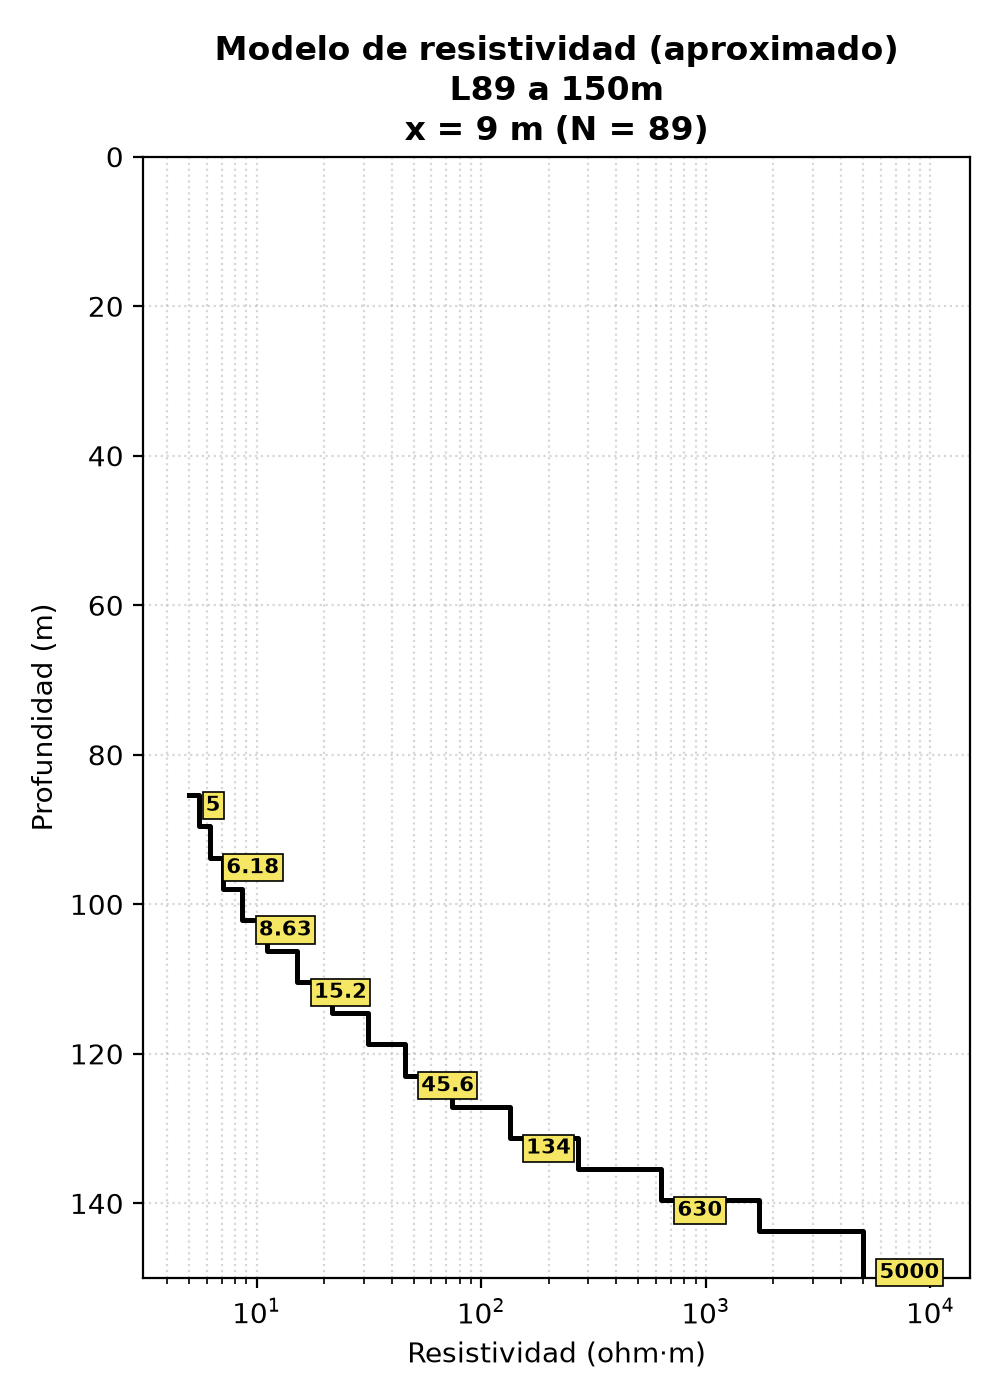
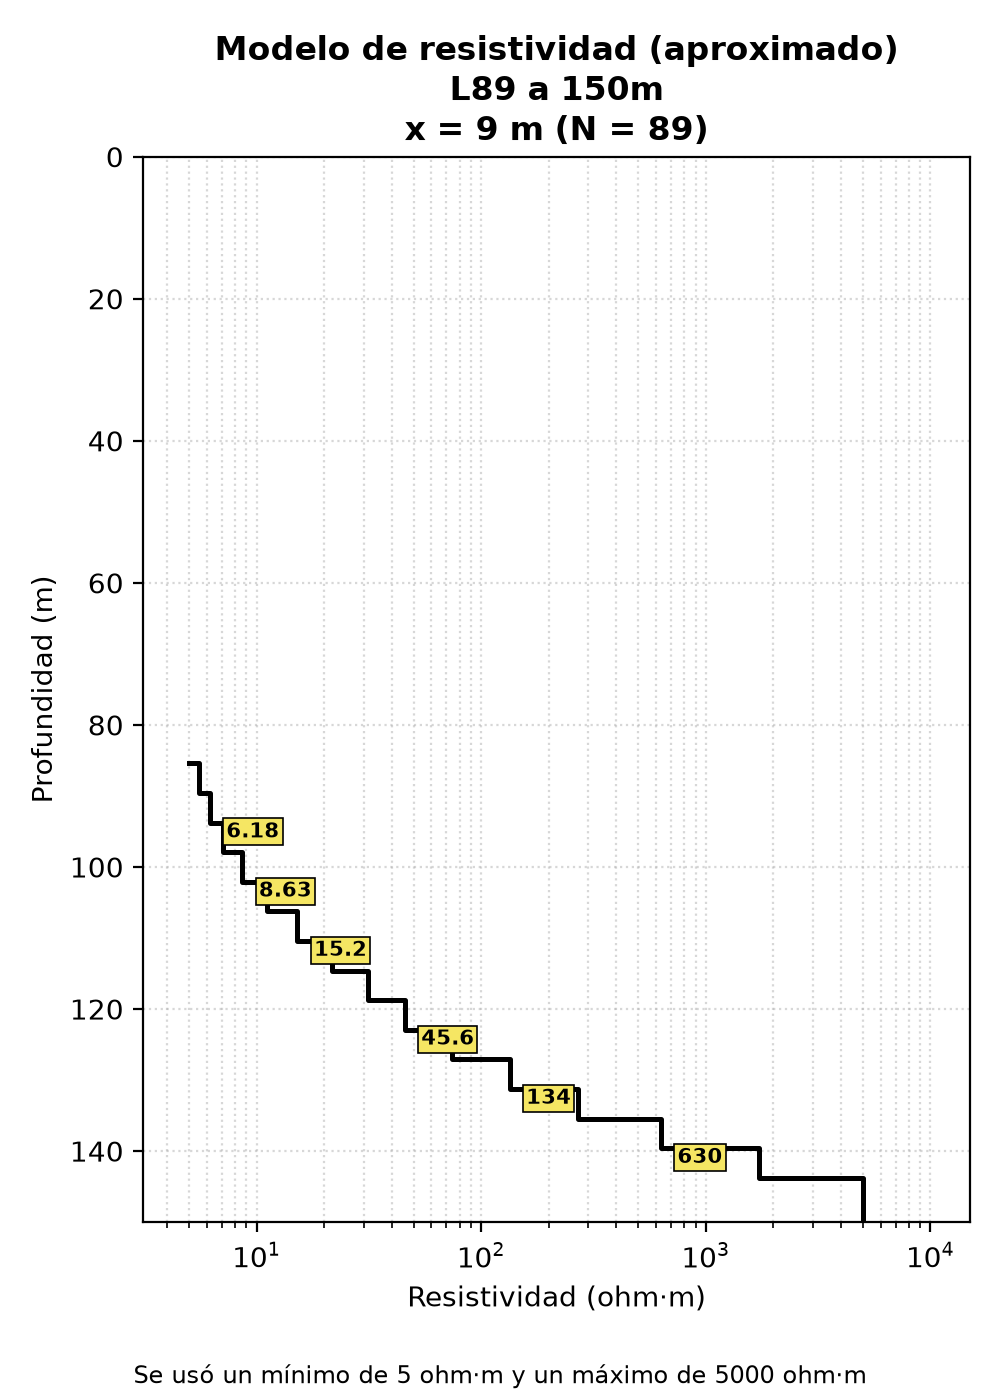
Resistivity model: drop min/max labels and state the min/max used at the bottom of the figure
Claude-Session: https://claude.ai/code/session_01Q2nGDhSbUmK7afAcFQ8b9A

diff --git a/tefsm_figuras.py b/tefsm_figuras.py
@@ -495,8 +495,12 @@ def figura_inversion(args):
     regulares = list(np.unique(np.round(np.linspace(0, len(rho) - 1, max(args.etiquetas, 2))).astype(int)))
     prioridad = [0, len(rho) - 1] + ext + regulares
     sep = args.prof / 22                                       # separacion vertical minima entre etiquetas
+    # no se etiquetan los puntos que valen exactamente el minimo o el maximo asignados (se indican al pie)
+    es_limite = lambda i: np.isclose(rho[i], args.rho_min, rtol=1e-6) or np.isclose(rho[i], args.rho_max, rtol=1e-6)
     elegidas = []
     for i in prioridad:
+        if es_limite(i):
+            continue
         if all(abs(hv[i] - hv[q]) >= sep for q in elegidas) and len(elegidas) < max(args.etiquetas, 2) + len(ext) + 2:
             elegidas.append(i)
     for i in sorted(elegidas):
@@ -510,7 +514,9 @@ def figura_inversion(args):
     ax.set_ylabel("Profundidad (m)")
     ax.set_title(f"Modelo de resistividad (aproximado)\n{etiqueta_csv(args.archivo)}\nx = {xs:g} m (N = {n[j]:g})", fontweight="bold")
     ax.grid(ls=":", alpha=0.5, which="both")
-    fig.tight_layout()
+    fig.text(0.5, 0.012, f"Se usó un mínimo de {args.rho_min:g} ohm·m y un máximo de {args.rho_max:g} ohm·m",
+             ha="center", fontsize=8.5)
+    fig.tight_layout(rect=(0, 0.04, 1, 1))
     ruta = os.path.join(args.salida, f"Modelo_Resistividad_{base}.png")
     terminar(fig, ruta, args)
 
